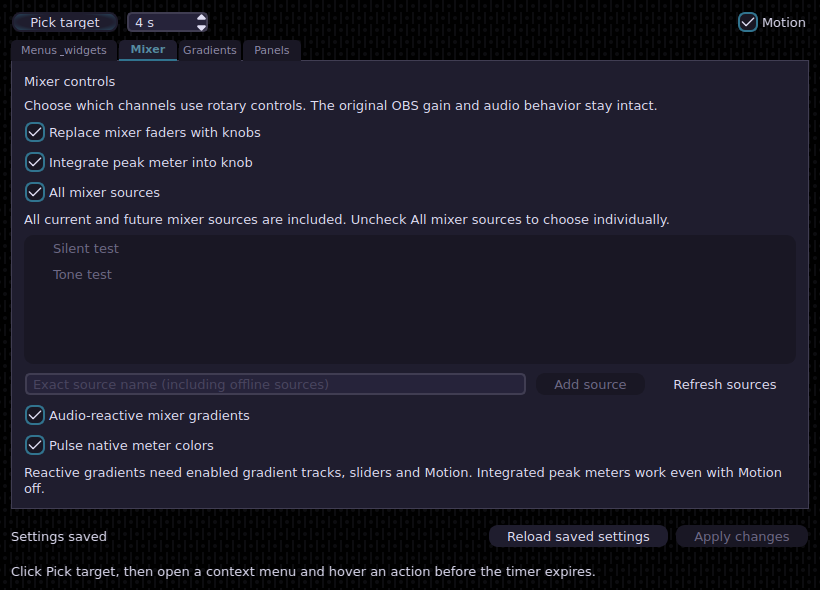
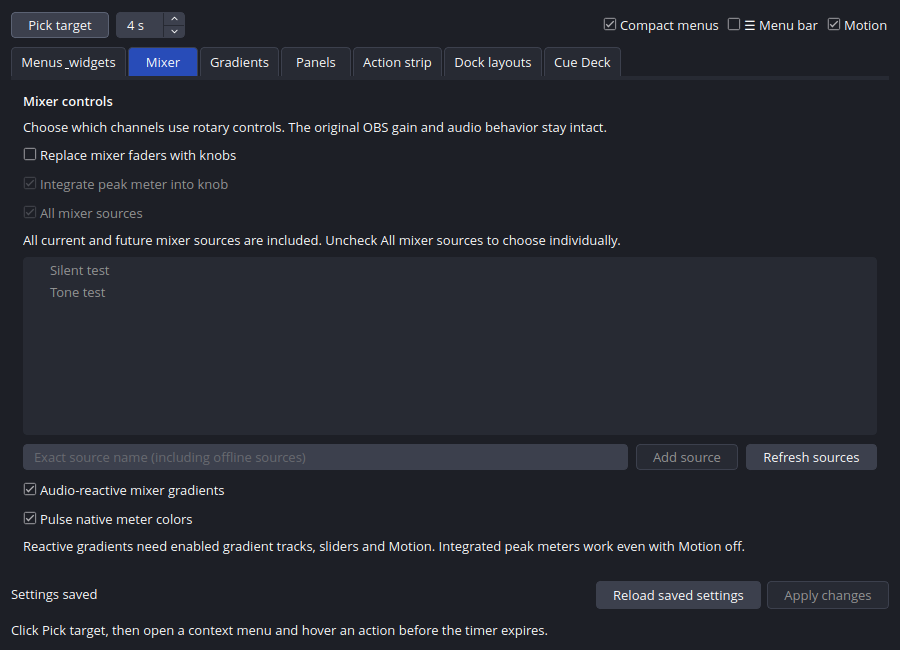
Refresh current Workspace and integration documentation

Changed region(s): [[0.0, 0.0, 1.0, 1.0]]

diff --git a/docs/user-guide.md b/docs/user-guide.md
@@ -38,6 +38,18 @@ For rollback, close OBS, remove the new module from the search path, restore
 the previous package from the rollback directory, and move the current config
 directory back to obs-ui-augment (do not overwrite an existing directory).
 
+### Optional companion plugins
+
+Aftermarket works without third-party plugins. For optional integrations,
+install Audio Monitor 0.10.1, Scene Collection Manager 0.1.2, Source Dock
+0.5.1 (or the compatible workspace-api fork), and Frame Interleave Filter
+0.2.0 from their upstream releases where available. These versions were
+exercised with OBS 32.2.0 on Linux. The Source Dock fork requires its own
+build and replaces the stock Source Dock module, not a second copy; back
+up the stock binary outside the OBS plugin directory. Its versioned API
+and preview properties are optional capabilities, detected at runtime.
+Aftermarket's installer does not download companion plugins.
+
 ### Settings inside OBS
 
 Open **OBS → Settings → Aftermarket** from OBS's normal Settings dialog.
@@ -52,13 +64,13 @@ The options are staged until you click OBS's existing **Apply** or **OK**
 button. **Cancel discards unapplied Aftermarket changes**, using the same
 native Settings controls as other OBS pages. Source names, mixer routing,
 and unrelated OBS settings are preserved. Advanced target-specific tools
-remain in the Inspector; the regular preferences now have their own home.
+remain in the Workspace; the regular preferences now have their own home.
 
 ![Aftermarket entry in the real OBS Settings sidebar, with global Appearance preferences](screenshots/readme/aftermarket-obs-settings.webp)
 
 ![Mixer and gradient preferences inside OBS Settings Aftermarket](screenshots/readme/aftermarket-settings-mixer.webp)
 
-### Inspector workspace
+### Unified Workspace
 
 The native Tools menu has one Aftermarket submenu: Workspace, Find Sources, and Emergency restore. The Workspace contains Menus & widgets, Mixer, Gradients, Panels, Action strip, Dock layouts, and Cue Deck tabs. In emergency safe mode only Resume UI customizations is visible. Open **Tools → Aftermarket → Workspace** for advanced per-target editing and
 richer visual editors. Its specialized pages remain available for:
@@ -84,7 +96,11 @@ richer visual editors. Its specialized pages remain available for:
   Toggle **Audio Mixer backside (native routing)** to add a flip button to
   OBS's real Audio Mixer dock. **Alternating list backgrounds** adds separate
   Scenes and Sources switches with native-theme or custom row colors. The
-  The Panels tab of Tools → Aftermarket → Workspace also provides dock controls.
+  native Settings Panels page also exposes global property layout preferences.
+
+- **Action strip:** show or hide the strip, review configured buttons and open its editor.
+- **Dock layouts:** manage saved arrangements, undo a switch and open workspace checkpoints.
+- **Cue Deck:** create, edit, run and stop named sequences of native actions.
 
 ![Mixer page in OBS](screenshots/readme/workspace-mixer.png)
 
@@ -109,6 +125,8 @@ native property reloads. This applies to source Properties and Filters
 dialogs, not every unrelated OBS settings page. Apply/OK saves the preference
 as `propertyColumns` (0 = Auto, 1–3 = maximum columns) in rules.json.
 
+![Actual native Color Correction controls in three responsive columns](screenshots/readme/responsive-filter-properties.webp)
+
 Property-group folding is off by default and saved as `collapsiblePropertyGroups` in
 `rules.json`. It affects native `OBSPropertiesView` **ordinary QGroupBox sections**
 only, not ungrouped filter controls or checkable enable/disable groups. Expanded
@@ -129,7 +147,7 @@ require explicit replacement. Remove exact rule deletes only the identical
 selector and leaves broader rules intact. The menu matcher's previous
 heuristic and rule precedence are unchanged.
 
-![Captured native menu](screenshots/readme/workspace-menus.png)
+![Menus and widgets tab before target capture](screenshots/readme/workspace-menus.png)
 
 ## Workspace and dock controls
 
@@ -210,8 +228,7 @@ restored it. Also verified by Qt dock-layout regression tests.
 ### Dockable video preview
 
 The preview normally stays in the center of OBS. To move it into the native
-dock system, open **Tools → Aftermarket → Workspace → Panels** (or the **Panels** tab of the
-Inspector) and press **Make preview dockable**. The Preview dock can be
+dock system, open **Tools → Aftermarket → Workspace → Panels** and press **Make preview dockable**. The Preview dock can be
 dragged between dock areas, floated, resized, or closed just like the other
 native OBS docks.
 
@@ -388,7 +405,11 @@ The remaining menu-bar space can hold the optional Action Strip described below.
 ### Action Strip
 
 **OBS Settings → Aftermarket → Action strip** controls visibility and
-opens the button editor. The **Action strip** tab in Tools → Aftermarket → Workspace also opens the same editor. Choose
+opens the button editor. The **Action strip** tab in Tools → Aftermarket → Workspace also opens the same editor.
+
+![Action strip tab inside the unified Workspace](screenshots/readme/workspace-action-strip.webp)
+
+Choose
 **Show OBS action strip** to place your configured items at the
 right of the *existing* native menu bar, including when the hamburger is off.
 It is **off by default** and does not replace OBS's Controls dock, native
@@ -440,6 +461,8 @@ dock late, and stops retrying on emergency recovery. It does not copy Timeline's
 ### Cue Deck
 
 **Tools → Aftermarket → Workspace → Cue Deck** opens the embedded cue manager.
+
+![Cue Deck tab inside the unified Workspace](screenshots/readme/workspace-cues.webp)
 Cues are named ordered action sequences—not new OBS scenes or copies of any
 third-party animation engine. Use **New cue**, enter a name, then add steps:
 
@@ -474,7 +497,7 @@ Up to 32 cues, each up to 48 steps, are supported; total waits per cue are
 limited to 120 seconds. Existing scene, filter, and plugin configurations are
 never rewritten by creating or editing a cue.
 
-This first implementation uses existing plugin hotkeys for interoperability;
+Cue Deck uses existing plugin hotkeys for interoperability;
 it does not add vendor-specific Exeldro parameter editing, visual animation
 previews, completion callbacks, or a general WebSocket macro adapter. Those
 need explicit compatibility and runtime testing before being described as
@@ -528,6 +551,7 @@ OBS; it doesn't send content elsewhere.
 - **Properties**, **Filters**, and **Go to scene** are independent actions.
   Typing in the search box does not change the live scene or source settings.
   **Refresh** rebuilds the source index if something changed while it was open.
+- When Source Dock is loaded, **Pin to workspace** creates a native source or scene dock without switching scenes. Right-click eligible asynchronous video results for **Off-air frame limit…** if Frame Interleave Filter is loaded. See the optional integration sections above.
 - For one-click entry, add **Find sources** in the existing
   **Aftermarket → Workspace → Action strip → Edit buttons and status readouts… → Add… → search** editor.
 - For keyboard entry, assign a shortcut to
@@ -546,7 +570,7 @@ modify OBS's docking layout.
 ### Alternating Scenes and Sources backgrounds
 
 In **OBS Settings → Aftermarket → Appearance**, turn on **Scenes** and/or
-**Sources** alternate rows independently. The Inspector's detailed
+**Sources** alternate rows independently. The Workspace's detailed
 **Panels → Alternating list backgrounds** editor remains available for
 choosing custom row colors. By default both are off.
 **Normal rows** and **Alternating rows** can each use a chosen solid color
@@ -560,7 +584,7 @@ ones; selection, hover and source-specific coloring remain native.
 
 The Strength slider is available in **OBS Settings → Aftermarket → Appearance**
 and **Tools → Aftermarket → Workspace → Panels → Alternating list backgrounds**.
-The Inspector previews changes while you drag and saves on release. Native
+The Workspace previews changes while you drag and saves on release. Native
 OBS Settings stages the value until you choose Apply or OK; Cancel discards
 unapplied edits. The settings are stored atomically as listRows.strength in
 rules.json, and turning stripes off restores the original palette and
@@ -710,7 +734,7 @@ The meter scale remains visible at silence and mute, using dimmed native zone co
 
 In **Tools → Aftermarket → Workspace**, enable gradient tracks on Gradients, then open Mixer and enable
 **Audio-reactive mixer gradients**, and optionally **Pulse native meter colors**.
-Enable Motion in the inspector. The effects are opt-in and can be toggled live.
+Enable Motion in the Workspace. The effects are opt-in and can be toggled live.
 
 - Each mixer fader follows its own source's libobs magnitude, not the global
   clock or another channel. Audio energy accelerates gradient flow and raises
@@ -752,7 +776,7 @@ inside meter bars remain future work.
 
 ### Animated gradient tracks
 
-Open **Tools → Aftermarket → Workspace → Gradients**. Turn on **Enable gradient tracks**, select sliders and/or progress bars, and apply. Enable the inspector's global **Motion** toggle for flowing gradients. The defaults leave existing configurations untouched.
+Open **Tools → Aftermarket → Workspace → Gradients**. Turn on **Enable gradient tracks**, select sliders and/or progress bars, and apply. Enable the Workspace's global **Motion** toggle for flowing gradients. The defaults leave existing configurations untouched.
 
 - Sliders and media seek bars: gradient follows native slider position, including vertical faders, inverted appearance and right-to-left geometry. The native thumb and input stay intact.
 - Determinate progress bars: fill follows the widget's actual range and value; text-bearing bars use a thin accent strip to preserve native text. Indeterminate, empty, hidden and disabled tracks are not painted.
@@ -773,7 +797,7 @@ Open **Tools → Aftermarket → Workspace → Gradients**. Turn on **Enable gra
 }
 ```
 
-Edit just the gradient and motion fields in an existing file to preserve your menu rules. The inspector merges settings into the existing file, atomically. Changes apply without a theme reload or restart; the rules watcher also reloads valid external edits. Motion off freezes the gradient; gradient off removes the decoration entirely.
+Edit just the gradient and motion fields in an existing file to preserve your menu rules. The Workspace merges settings into the existing file, atomically. Changes apply without a theme reload or restart; the rules watcher also reloads valid external edits. Motion off freezes the gradient; gradient off removes the decoration entirely.
 
 The overlay derives groove, thumb and progress content rectangles from Qt's actual style geometry. Slider gradients extend to the native thumb center, preserving the actual handle silhouette instead of leaving a rounded gap before it. A cached native-paint comparison covers the exposed page around the thumb; solid-color antialiased edges are recomposited over the animated fill. Ambiguous custom handle pixels remain native. It uses a seamless repeated gradient and one shared 30 Hz timer, which stops if there are no visible, nonempty animated tracks. It never writes slider values or changes the stream compositor.
 
@@ -871,14 +895,14 @@ existing `rules.json`; do not replace the entire file):
 
 These keys are added to the existing `rules.json`; they do not replace the
 original `rules`, `menuOverflow`, or gradient settings. Add commands from
-the inspector to generate unique IDs automatically.
+the Workspace to generate unique IDs automatically.
 
 | Customized native menu | Recover or edit saved entries |
 | --- | --- |
 | ![OBS source menu with a custom command and a hidden default](screenshots/readme/menu-custom-actions.png) | ![Manage hidden native actions and custom entries](screenshots/readme/menu-actions-manager.png) |
 
 **Current scope:** native QMenu actions, scoped hiding, and direct executable
-custom entries. The inspector can browse nested native submenus, but custom
+custom entries. The Workspace can browse nested native submenus, but custom
 entries are appended to the captured menu rather than placed into new nested
 groups. Ordering custom commands, selection/source argument placeholders, and
 importing external menu-action definitions are not yet implemented. Native
@@ -913,7 +937,7 @@ may need to be opened before capturing their full list.
 
 | Selected choices in OBS | Expanded inspector menu tree |
 | --- | --- |
-| ![Native OBS source menu showing selected color and Lanczos filtering](screenshots/readme/menu-selected-choices.png) | ![Inspector listing nested native menu items and selected color preset](screenshots/readme/inspector-menu-tree.png) |
+| ![Native OBS source menu showing selected color and Lanczos filtering](screenshots/readme/menu-selected-choices.png) | ![Menus & widgets listing nested native menu items and selected color preset](screenshots/readme/inspector-menu-tree.png) |
 
 ### Live rules
 
@@ -947,7 +971,7 @@ Example of a complete replacement rules file:
 ### Theme-aware typography and selected states
 
 Aftermarket's own controls use a restrained visual hierarchy without
-changing the current OBS theme's font family or color palette. The Inspector
+changing the current OBS theme's font family or color palette. The Workspace
 uses normal-weight body text and semibold section headings; Studio Mode
 labels scale relative to the active font rather than forcing 12px.
 Aftermarket-owned selected Studio view buttons and patchbay track switches
@@ -958,7 +982,7 @@ thinner, while their source/track routes remain unchanged.
 Compact menus honor the active font's actual line height. **Native OBS
 widgets, menus and source list selection remain owned by OBS and its theme.**
 
-![Aftermarket Inspector typography with Colorway](screenshots/readme/inspector-typography.webp)
+![Earlier verified Inspector typography with Colorway (before Workspace consolidation)](screenshots/readme/inspector-typography.webp)
 
 ### Theme-aware transform selection
 
@@ -1006,7 +1030,7 @@ Enable **Motion** in **OBS → Settings → Aftermarket → Menus** or from
 **Tools → Aftermarket → Workspace**. The same global control governs menu artwork,
 dock collapse/expand, AudioBus page switching, and existing reactive gradients.
 Motion is off by default, preserving the native immediate behavior until enabled.
-For individual menu artwork rules, pick a preset and duration in the inspector.
+For individual menu artwork rules, pick a preset and duration in the Workspace.
 
 - **soft**: fade/slide entrance, modest icon growth on hover.
 - **pop**: fade/slide with a more pronounced scale transition.
@@ -1131,7 +1155,15 @@ Inspector slice verification (same isolated OBS configuration):
 Real OBS testing is limited to Linux/X11 with OBS 32.2.0 and Qt 6.4.2, using native themes and Colorway.
 Additional themes, DPI scaling, RTL, other platforms and unsupported native widgets need validation. See the [verification history](../ACTIVE_WORK.md) for individual runtime receipts and known limitations.
 
-Recent real OBS checks include the split compact source picker, single-click creation, existing-source filtering and addition, and two-monitor filter submenu anchoring. The regression suite also covers native dock snapshots, Quick Find and the Action Strip. Recent verification used 29/30 offscreen CTests plus a passing single-head XCB run of the display-sensitive panels test.
+Current local verification: **38/38 CTests passed**. Isolated OBS runs
+covered responsive source/filter settings, dynamic property reloads, native
+mixer reorder and optional device sends, checkpoint capture, Source Dock
+pinning and lightweight previews, and the unified Workspace with emergency
+recovery during an open checkpoint dialog. The installed modules were also
+loaded together in a disposable profile; OBS exited normally. No claim is
+made that every combination of plugins, source types, hardware or graphics
+drivers has been exercised. Optional preview caching is SDR-only and total
+GPU savings have not been benchmarked.
 
 ### Disable/remove
 

diff --git a/README.md b/README.md
@@ -57,6 +57,11 @@ The mixer still belongs to OBS. AudioBus does not implement a second audio engin
 
 ## Workspace
 
+The main **Tools → Aftermarket → Workspace** window contains seven tabs:
+Menus & widgets, Mixer, Gradients, Panels, Action strip, Dock layouts and
+Cue Deck. Quick Find and Emergency restore are the only other Tools
+commands. Routine preferences remain in OBS Settings.
+
 ### Docks and layouts
 
 Native dock titles get theme-aware icons and compact three-dot menus for
@@ -79,12 +84,17 @@ its manager directly from Dock Layouts.
 Optional [Source Dock](https://obsproject.com/forum/resources/source-dock.1317/) panels
 receive the native Aftermarket header controls and a shortcut to Source Docks settings.
 Use **Pin to workspace** in Quick Find to create an actual Source Dock without switching scenes.
-The workspace-api fork adds per-dock preview refresh rates, freeze, controls-only mode and cached resolution in the existing dock menu; hidden previews release their cache and showing reference.
+The optional Source Dock workspace-api fork supplies a native pinning API,
+independent SDR preview refresh (Live, 30, 15, 10, 5, 2, 1 FPS or Freeze),
+controls-only mode and cached resolution (2048, 1280, 640 or 320 px).
+Hidden previews release their cache and showing reference. Stock 0.5.1
+supports the guarded pinning adapter but not these new preview options.
+The fork retains upstream module identity and license; no public fork
+release is established.
 Optional [Frame Interleave Filter](https://obsproject.com/forum/resources/frame-interleave-filter.1618/)
 adds **Off-air frame limit** to eligible asynchronous video sources in the Quick Find
 context menu; the original filter handles activity-aware frame dropping.
-Workspace checkpoints capture their scene-collection configuration without replacing
-Source Dock's rendering or controls.
+Workspace checkpoints capture Source Dock settings and Frame Interleave filters through the native scene collection. Neither integration replaces the underlying source or Program renderer.
 
 | Native dock headers | Saved dock arrangements |
 | :---: | :---: |
@@ -97,7 +107,7 @@ Source Dock's rendering or controls.
 ### Action Strip
 
 Put useful controls in the existing menu bar: OBS and plugin hotkeys,
-dock show/hide buttons, live status, saved dock layouts, and Quick Find.
+dock show/hide buttons, live status, saved dock layouts, Cue Deck sequences, and Quick Find.
 Reorder them directly or use the editor. Extra items move to overflow instead
 of being clipped. The optional hamburger menu frees additional space.
 
@@ -160,7 +170,7 @@ their triggering row, including on offset dual-monitor layouts.
 
 ![A compact Filters Add submenu attached to its actual parent menu](docs/screenshots/readme/filter-submenu-anchored.webp)
 
-Customize specific native menus through the Inspector: add icons, hide
+Customize specific native menus in Workspace → Menus & widgets: add icons, hide
 unwanted commands, explicitly move entries into More actions, add trusted
 executable commands, and display checked submenu values. The searchable
 theme/style picker makes long Appearance lists easier to navigate.
@@ -185,9 +195,11 @@ palette. Optional refinements include:
 
 ![Real OBS dock collapse and AudioBus flip animation frames](docs/screenshots/readme/ui-motion-docks-and-audiobus.webp)
 
+![Native Color Correction filter settings reflowed into three columns](docs/screenshots/readme/responsive-filter-properties.webp)
+
 [Appearance and motion guide](docs/user-guide.md#appearance-and-motion)
 
-## Settings and inspector
+## Settings and Workspace
 
 Open **OBS → Settings → Aftermarket** for normal preferences.
 Use the native Apply, OK, and Cancel buttons. The five pages are
@@ -212,8 +224,8 @@ ctest --test-dir build --output-on-failure
 ./scripts/install.sh
 ```
 
-Restart OBS. Existing themes and configuration are preserved by the installer.
-The module and configuration directory are now named aftermarket. The Linux installer backs up the previous plugin outside OBS’s search path; existing settings migrate as a complete directory on the next launch. See the [upgrade guide](docs/user-guide.md#upgrading-from-obs-ui-augment).
+Restart OBS. Existing themes and configuration are preserved by the installer. For same-name upgrades, back up the previous module outside the plugin directory before installing. Optional companion plugins are installed separately.
+The module and configuration directory are now named aftermarket. The Linux installer moves the legacy obs-ui-augment package outside OBS’s search path; existing settings migrate as a complete directory on the next launch. See the [upgrade guide](docs/user-guide.md#upgrading-from-obs-ui-augment).
 
 **Compatibility:** Runtime verification currently covers Linux/X11,
 OBS 32.2.0 and Qt 6.4.2. The native column layout adapter requires the
@@ -226,7 +238,7 @@ DPI configurations, and OBS versions need additional verification.
 The [Linux CI workflow](.github/workflows/ci.yml) targets Ubuntu 24.04 and
 a SHA-256-pinned OBS 32.2.0 SDK. It checks local README links, builds the
 module, runs the native Qt/libobs CTest suite under an isolated X display
-(at least 32 tests, no skips), stages the plugin, checks linked libraries
+(CI baseline: at least 32 tests, no skips; current local suite: 38), stages the plugin, checks linked libraries
 and the exact package contents, and verifies the archive checksum.
 It does not install into a user's profile, publish release assets, or
 claim Windows, macOS, or OBS 33 support.
@@ -254,5 +266,5 @@ when ready.
 - [Verification and development history](ACTIVE_WORK.md) — implementation checkpoints and real runtime evidence.
 
 Screenshots are captured from real, isolated OBS sessions with native themes
-and Colorway. The project is independent of OBS Studio and does not replace its
+and Colorway. Workspace, Quick Find and responsive properties images reflect the current interface; other feature screenshots may depict earlier verified builds. The project is independent of OBS Studio and does not replace its
 theme system or streaming compositor.

diff --git a/docs/dock-layouts.md b/docs/dock-layouts.md
@@ -7,8 +7,17 @@ Save and restore native OBS dock arrangements using Qt dock state. Aftermarket d
 1. In OBS, open Tools > Aftermarket > Workspace > Dock layouts after the application finishes loading.
 2. Arrange the native OBS docks and choose Save current... Give the arrangement a unique name, such as Streaming, Editing, or Audio.
 3. Select a saved snapshot and choose Switch to layout (or double-click it). Undo switch restores the previous dock arrangement, once.
-4. Use Rename, Update from current (confirmed replacement), and Delete (confirmed removal) from the same dialog.
+4. Use Rename, Update from current (confirmed replacement), and Delete (confirmed removal) from the same Workspace tab.
 5. For a one-click layout macro, open Tools > Aftermarket > Workspace > Action strip > Edit buttons and status readouts..., choose Add... > layout, and select a saved arrangement. Turn on the Action Strip if you want the button in the OBS menu bar. Saved layout actions can be reordered and overflow like existing hotkey or dock buttons.
+
+## Checkpoints and companion backups
+
+Open **Workspace checkpoints…** in Dock layouts for named recovery bundles.
+These contain the scene collection, dock state and selected Aftermarket
+settings. Dock-only restore and explicit recovery exports are supported;
+full one-click workspace restoration is not. If Scene Collection Manager
+is loaded, its optional companion backup uses the native backup action and
+verifies the resulting file. See the [checkpoint guide](user-guide.md#workspace-checkpoints).
 
 ## Safety and scope
 

diff --git a/ACTIVE_WORK.md b/ACTIVE_WORK.md
@@ -3189,3 +3189,22 @@ persisted layouts. Cue dispatch from embedded page tested in Qt fixture.
 Two unattributed libobs leaks remain. Native evidence
 /tmp/aftermarket-unified-workspace-20261124/obs-recovery2.log; docs screenshot
 replaced. No production install or push.
+
+## Installed current workspace and companion fork — 2026-11-24
+
+Explicit install request completed: rebuilt Aftermarket 70372b0 plus the
+pre-existing unstaged comment, 38/38 CTests passed; Source Dock workspace-api
+0a37ed0 built and ABI/cadence/visibility/resolution tests passed. Installed
+both binaries atomically in the existing user plugin directories. Previous
+binaries preserved outside OBS search path at
+~/.local/share/aftermarket/rollback/current-install.MoapGJ.
+Built and installed SHA-256 values match (Aftermarket 70498fadd42e8cdeacfa2065b72219134625aa85e5baacd8d25f64429b0a980d;
+Source Dock cfd026077a5ddc4240fa603c87589bd0d14d91311fd07d0d90a5ac688cee00d3).
+No missing shared libraries. Production OBS was closed; user scene/settings
+files untouched. Copied installed modules to disposable profile, verified
+Workspace and Quick Find plus native pin API and companion module loading
+(Audio Monitor, Scene Collection Manager, Frame Interleave); OBS exit 0.
+Evidence /tmp/aftermarket-installed-docs-20261124/obs.log. Refreshed seven
+Workspace tab images, Quick Find, actual responsive filter controls; audited
+README, user guide, dock layouts, CI and historical dock design. Relative
+file-link checks passed; historical screenshots not all recaptured. No push.

diff --git a/docs/ci.md b/docs/ci.md
@@ -47,7 +47,7 @@ The pinned OBS 32.2.0 SDK was downloaded, checksum-verified and built
 from source. A clean Release build of the committed source plus this
 CI change passed all 32 CTest cases, the module-only package allowlist,
 shared-library checks, SHA-256 verification and extraction comparison.
-GitHub-hosted execution is not yet established.
+GitHub-hosted execution is not yet established. The current local regression suite has since grown to 38 tests; the original 32-test SDK/package qualification above is historical, not a claim that the latest package was requalified against that SDK.
 
 The temporary archives are intentionally not release packages. Public
 redistribution requires the owner to establish licensing, provenance and

diff --git a/docs/dock-backsides-design.md b/docs/dock-backsides-design.md
@@ -1,6 +1,6 @@
 # Aftermarket: dock faces, header controls, and native audio patchbay
 
-Status: **proposed for review** (2026-11-21). No product code changed by this design.
+Status: **historical design proposal** (2026-11-21). Retained for provenance, not current product instructions. AudioBus and native dock headers are implemented; the [current user guide](user-guide.md#mixer-and-audiobus) supersedes this proposal, including optional Audio Monitor device sends.
 Owner: `obs-ui-augment/`, project-facing name Aftermarket.
 
 ## Intent and accepted direction
